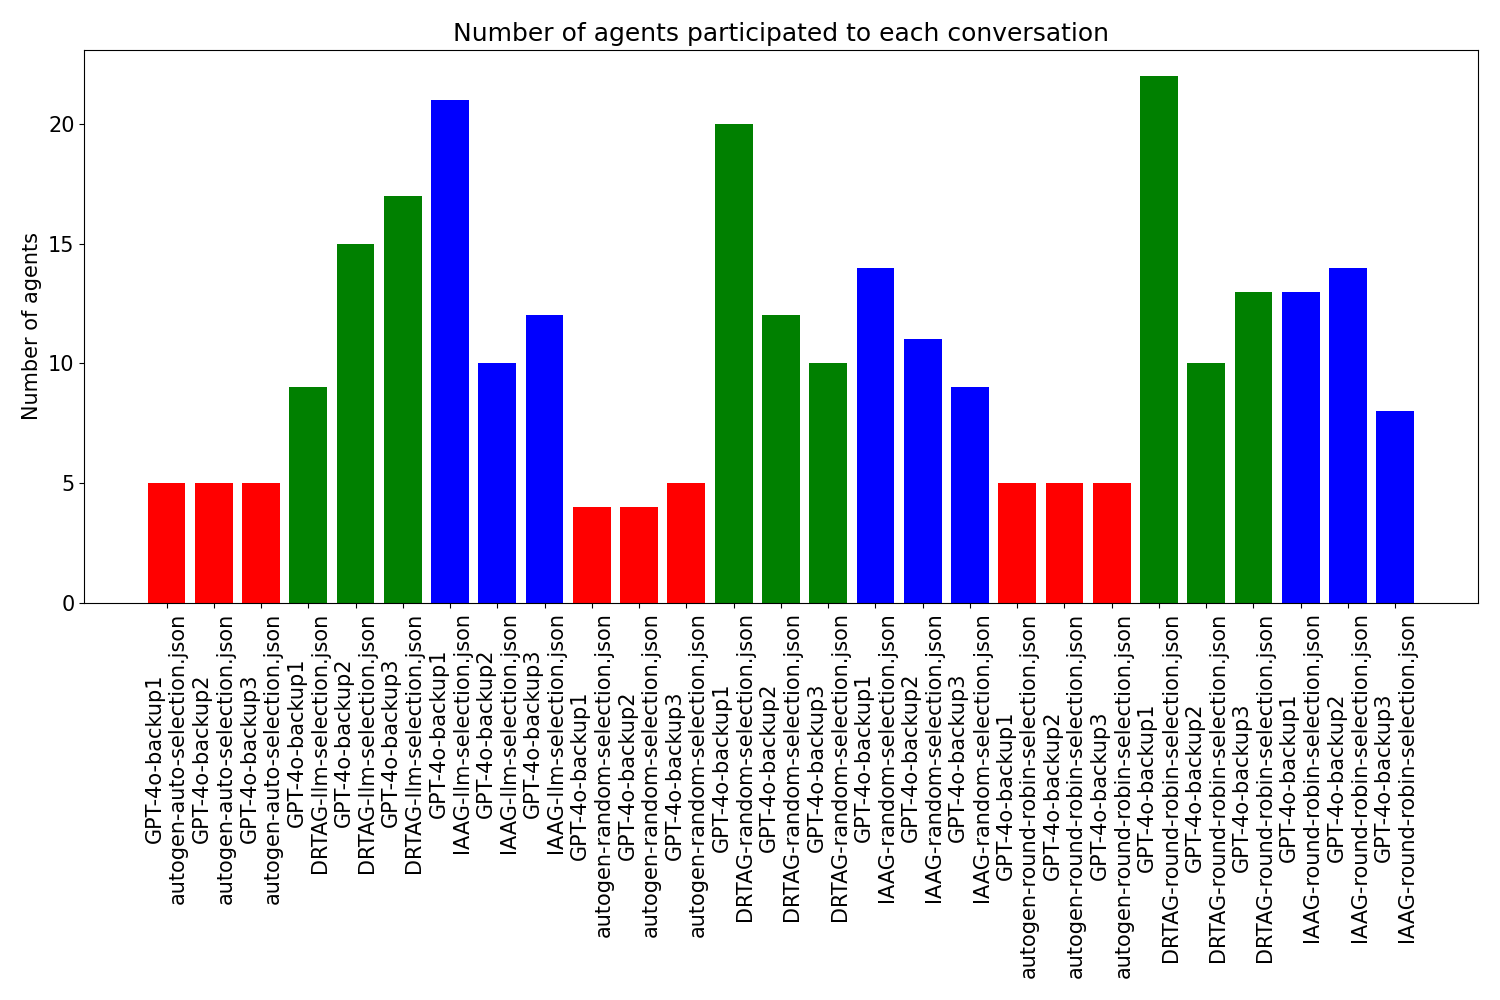
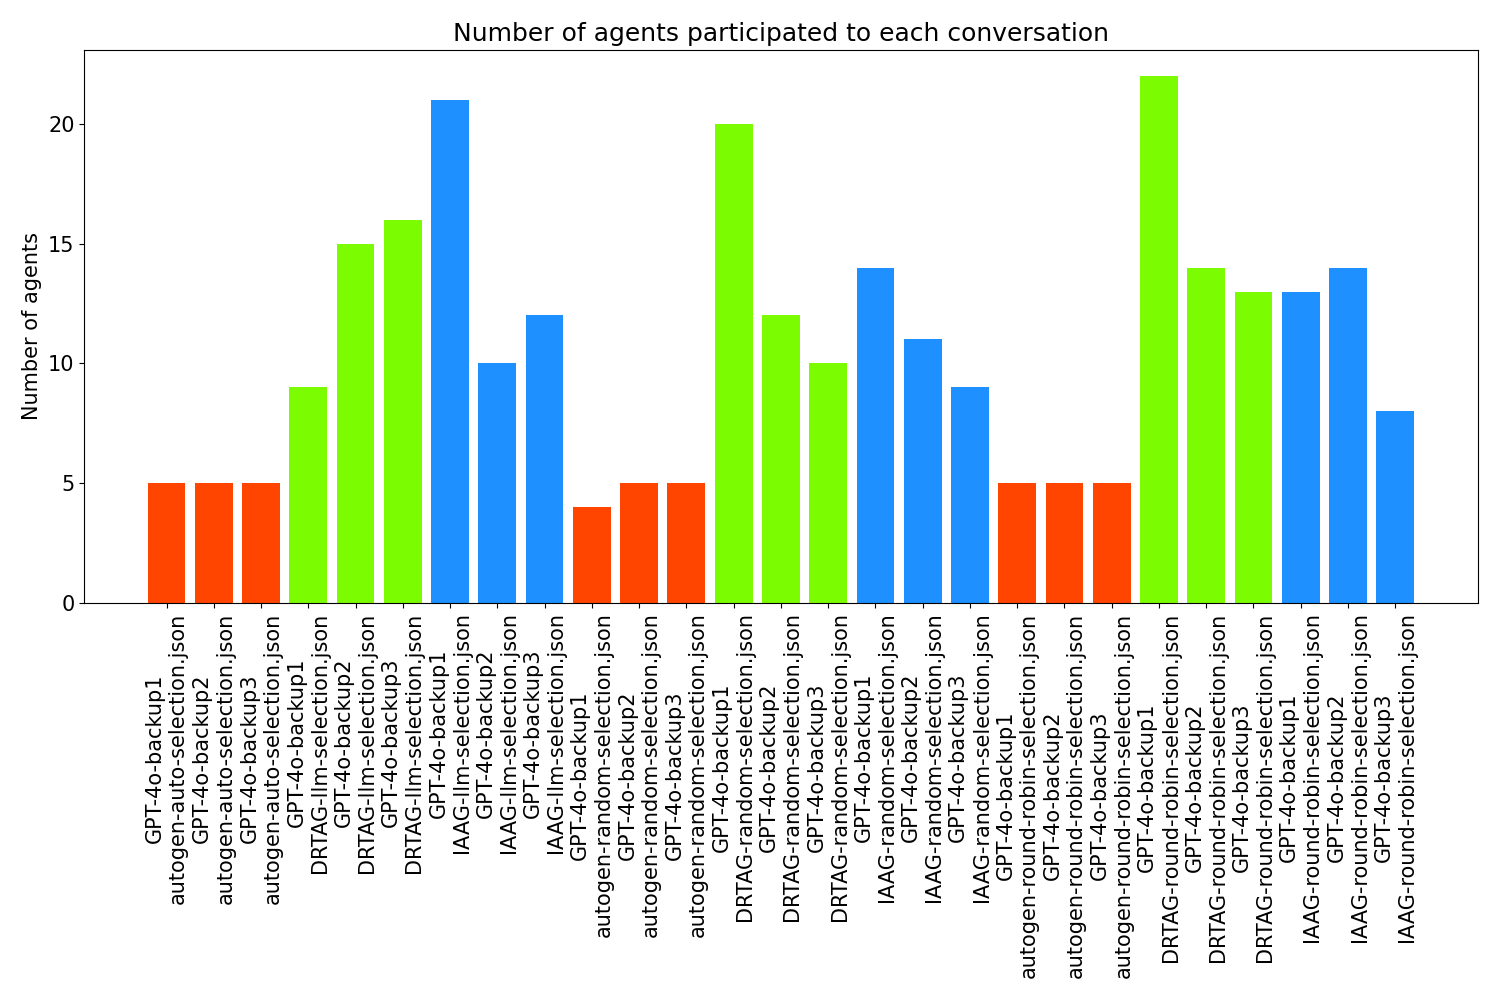
Modify evaluators to score against no of agents.

Changed region(s): [[0.092, 0.062, 0.9507, 0.62]]

diff --git a/agent-count-vs-new-knowledge-evaluator.py b/agent-count-vs-new-knowledge-evaluator.py
@@ -4,10 +4,6 @@ import re
 import nltk
 from nltk.stem import WordNetLemmatizer
 
-from sklearn.feature_extraction.text import TfidfVectorizer
-import pandas as pd
-import matplotlib.pyplot as plt
-
 jsonFilePaths = [
     # autogen llm selection
     "Existing-Solution/Responses/GPT-4o-backup1/autogen-llm-selection.json",
@@ -47,23 +43,6 @@ jsonFilePaths = [
     "Novel-Approach/Responses/GPT-4o-backup3/IAAG-round-robin-selection.json",
 ]
 
-corpus = []
-
-# Read data from the JSON file
-for jsonFilePath in jsonFilePaths:
-    with open(jsonFilePath, "r") as jsonFile:
-        jsonData = json.load(jsonFile)
-
-    # Convert data to a plain text format (Agent - Dialog \n Agent - Dialog)
-    plainTextData = ""
-    for entry in jsonData:
-        plainTextData += f"{entry['role']} - {entry['content']}\n"
-
-    corpus.append(plainTextData)
-
-print("Corpus with plain text documents is created.")
-
-# Clean the text data and remove stopwords
 stopwords = set(nltk.corpus.stopwords.words('english'))
 lemmatizer = WordNetLemmatizer()
 
@@ -75,14 +54,6 @@ def clean_text(text):
     text = ' '.join([lemmatizer.lemmatize(word) for word in nltk.word_tokenize(text)])
     return text
 
-cleanedCorpus = [clean_text(doc) for doc in corpus]
-# save cleaned corpus to a txt file
-with open("cleaned-corpus.txt", "w") as file:
-    for doc in cleanedCorpus:
-        file.write(doc + "\n")
-print("Text data is cleaned and stopwords are removed.")
-
-# Create the TF-IDF vectorizer
 vocab = {
     # Possible Illnesses
     "appendicitis", "gynecological", "kidney stone", "gastrointestinal", "colon cancer", "ileitis", "ovarian", "crohn disease", "colitis", "diverticulitis", "urinary tract", "musculoskeletal issue", "hernia",
@@ -93,43 +64,69 @@ vocab = {
     # Preventive Actions, Prior and Post Treatment Advice  
     "diet", "dietary", "hydrated", "hydration", "rest", "symptom diary", "fever", "nausea", "vomiting", "bowel", "dizziness", "abdominal rigidity", "stress", "breathing", "deepbreathing", "relaxation", "relax", "strenuous activity", "acupuncture", "allergy", "water", "diet", "heat", "fasting", "pain medication"
 }
-vectorizer = TfidfVectorizer(vocabulary=vocab, ngram_range=(1, 2))
-tfidfMatrix = vectorizer.fit_transform(cleanedCorpus)
 
-# Create tfidf table to output
-outputVocabulary = vectorizer.get_feature_names_out()
-documentNames = []
-for path in jsonFilePaths:
-    splitPath = path.split('/')
-    documentNames.append(splitPath[-2]+'/'+splitPath[-1])
+agentCountsAndBinaryWeight = dict()
 
-tfidfArray = tfidfMatrix.toarray()
-transposedTfidfArray = tfidfArray.T
-tfidfTable = pd.DataFrame(transposedTfidfArray, columns=documentNames, index=outputVocabulary)
+# Read data from the JSON file
+for jsonFilePath in jsonFilePaths:
+    with open(jsonFilePath, "r") as jsonFile:
+        jsonData = json.load(jsonFile)
 
-tfidfTable.to_csv("tfidf-table.csv")
-print("TF-IDF table is created and saved as tfidf-table.csv.")
+    # Count number of agents
+    agents = set()
+    for entry in jsonData:
+        agents.add(entry["role"])
 
-sums = tfidfTable.iloc[:, 0:].sum(axis=0)
+    # binary weight the new knowledge
+    initialAgents = {"Patient", "General-Ward-Doctor", "Nurse"}
+    initialAgentsContent = ""
+    autoGeneratedAgentsContent = ""
 
-plt.figure(figsize=(15, 10))
+    for entry in jsonData:
+        if entry["role"] in initialAgents:
+            initialAgentsContent += entry["content"] + " "
+            initialAgents.remove(entry["role"])
+        else:
+            autoGeneratedAgentsContent += entry["content"] + " "
+
+    # Clean the text data and remove stopwords
+    initialAgentsCleanedContent = clean_text(initialAgentsContent)
+    autoGeneratedAgentsCleanedContent = clean_text(autoGeneratedAgentsContent)
+
+    initialAgentsTermSet = set(initialAgentsCleanedContent.split())
+    autoGeneratedAgentsTermSet = set(autoGeneratedAgentsCleanedContent.split())
+    termsToScoreConversation = vocab.intersection(autoGeneratedAgentsTermSet - initialAgentsTermSet)
+
+    filename = jsonFilePath.split("/")[-2] + '\n' + jsonFilePath.split("/")[-1]
+    agentCountsAndBinaryWeight[filename] = [(len(agents) - 1), len(termsToScoreConversation)]
+
+print("Number of agents are counted for each JSON file.")
+
+# Plot a scatter plot of agent count vs binary weight
+import matplotlib.pyplot as plt
+
+plt.figure(figsize=(15, 8))
 plt.rcParams.update({'font.size': 15})
-# convert '/' in column  in tfidfTable to '\n' for better readability
-tfidfTable.columns = [col.replace('/', '\n') for col in tfidfTable.columns]
-barColors = []
-for label in tfidfTable.columns[0:]:
+scatterColors = []
+for label in agentCountsAndBinaryWeight.keys():
     if label.split("\n")[1].startswith("autogen"):
-        barColors.append('orangered')
+        scatterColors.append('pink')
     elif label.split("\n")[1].startswith("DRTAG"):
-        barColors.append('lawngreen')
+        scatterColors.append('limegreen')
     else:
-        barColors.append('dodgerblue')
+        scatterColors.append('yellow')
 
-plt.bar(tfidfTable.columns[0:], sums, color=barColors)
-plt.xticks(rotation=90)
-plt.ylabel("TF-IDF Sum")
-plt.title("TF-IDF Sum for each conversation")
+
+i = 0
+for key in agentCountsAndBinaryWeight.keys():
+    plt.scatter(agentCountsAndBinaryWeight[key][0], agentCountsAndBinaryWeight[key][1], color=scatterColors[i])
+    i += 1
+
+plt.title("Agent Count vs Binary Weight for New Knowledge")
+plt.xlabel("Number of Agents")
+plt.ylabel("Binary Weight for New Knowledge")
+plt.legend(loc="upper right", title="LLM-based MAS approach", labels=["Autogen", "DRTAG", "IAAG"])
+plt.grid()
 plt.tight_layout()
-plt.savefig("tfidfSums.png")
-
-print("TF-IDF sums are saved as tf-idf-sums.png.")
+plt.savefig("agentCountVsNewKnowledgeBinaryWeight2.png")
+print("Scatter plot of agent count vs binary weight is saved as agentCountVsNewKnowledgeBinaryWeight.png.")

diff --git a/binary-weight-for-new-knowledge-evaluator.py b/binary-weight-for-new-knowledge-evaluator.py
@@ -6,9 +6,9 @@ from nltk.stem import WordNetLemmatizer
 
 jsonFilePaths = [
     # autogen llm selection
-    "Existing-Solution/Responses/GPT-4o-backup1/autogen-auto-selection.json",
-    "Existing-Solution/Responses/GPT-4o-backup2/autogen-auto-selection.json",
-    "Existing-Solution/Responses/GPT-4o-backup3/autogen-auto-selection.json",
+    "Existing-Solution/Responses/GPT-4o-backup1/autogen-llm-selection.json",
+    "Existing-Solution/Responses/GPT-4o-backup2/autogen-llm-selection.json",
+    "Existing-Solution/Responses/GPT-4o-backup3/autogen-llm-selection.json",
     # DRTAG llm selection
     "Novel-Approach/Responses/GPT-4o-backup1/DRTAG-llm-selection.json",
     "Novel-Approach/Responses/GPT-4o-backup2/DRTAG-llm-selection.json",
@@ -79,7 +79,7 @@ for jsonFilePath in jsonFilePaths:
     for entry in jsonData:
         if entry["role"] in initialAgents:
             initialAgentsContent += entry["content"] + " "
-            initialAgents.remove(entry["role"])
+            # initialAgents.remove(entry["role"])
         else:
             autoGeneratedAgentsContent += entry["content"] + " "
 
@@ -103,16 +103,16 @@ plt.rcParams.update({'font.size': 15})
 barColors = []
 for label in conversationScores.keys():
     if label.split("\n")[1].startswith("autogen"):
-        barColors.append('red')
+        barColors.append('orangered')
     elif label.split("\n")[1].startswith("DRTAG"):
-        barColors.append('green')
+        barColors.append('lawngreen')
     else:
-        barColors.append('blue')
+        barColors.append('dodgerblue')
 
 plt.bar(conversationScores.keys(), conversationScores.values(), color=barColors)
 plt.xticks(rotation=90)
 plt.ylabel("Conversation Score")
 plt.title("Conversation score calculated using binary weighting for new knowledge")
 plt.tight_layout()
-plt.savefig("conversationScoresBinaryWeighting2.png")
+plt.savefig("conversationScoresBinaryWeighting.png")
 print("Graph is plotted successfully.")

diff --git a/agent-count-evaluator.py b/agent-count-evaluator.py
@@ -2,9 +2,9 @@ import json
 
 jsonFilePaths = [
     # autogen llm selection
-    "Existing-Solution/Responses/GPT-4o-backup1/autogen-auto-selection.json",
-    "Existing-Solution/Responses/GPT-4o-backup2/autogen-auto-selection.json",
-    "Existing-Solution/Responses/GPT-4o-backup3/autogen-auto-selection.json",
+    "Existing-Solution/Responses/GPT-4o-backup1/autogen-llm-selection.json",
+    "Existing-Solution/Responses/GPT-4o-backup2/autogen-llm-selection.json",
+    "Existing-Solution/Responses/GPT-4o-backup3/autogen-llm-selection.json",
     # DRTAG llm selection
     "Novel-Approach/Responses/GPT-4o-backup1/DRTAG-llm-selection.json",
     "Novel-Approach/Responses/GPT-4o-backup2/DRTAG-llm-selection.json",
@@ -64,11 +64,11 @@ plt.rcParams.update({'font.size': 15})
 barColors = []
 for label in agentCounts.keys():
     if label.split("\n")[1].startswith("autogen"):
-        barColors.append('red')
+        barColors.append('orangered')
     elif label.split("\n")[1].startswith("DRTAG"):
-        barColors.append('green')
+        barColors.append('lawngreen')
     else:
-        barColors.append('blue')
+        barColors.append('dodgerblue')
 
 plt.bar(agentCounts.keys(), agentCounts.values(), color=barColors)
 plt.xticks(rotation=90)

diff --git a/tf-idf-evaluator copy.py b/tf-idf-evaluator copy.py
@@ -10,9 +10,9 @@ import matplotlib.pyplot as plt
 
 jsonFilePaths = [
     # autogen llm selection
-    "Existing-Solution/Responses/GPT-4o-backup1/autogen-auto-selection.json",
-    "Existing-Solution/Responses/GPT-4o-backup2/autogen-auto-selection.json",
-    "Existing-Solution/Responses/GPT-4o-backup3/autogen-auto-selection.json",
+    "Existing-Solution/Responses/GPT-4o-backup1/autogen-llm-selection.json",
+    "Existing-Solution/Responses/GPT-4o-backup2/autogen-llm-selection.json",
+    "Existing-Solution/Responses/GPT-4o-backup3/autogen-llm-selection.json",
     # DRTAG llm selection
     "Novel-Approach/Responses/GPT-4o-backup1/DRTAG-llm-selection.json",
     "Novel-Approach/Responses/GPT-4o-backup2/DRTAG-llm-selection.json",
@@ -150,11 +150,11 @@ plt.rcParams.update({'font.size': 15})
 barColors = []
 for label in tfidfTable.columns[0:]:
     if label.startswith("autogen"):
-        barColors.append('red')
+        barColors.append('orangered')
     elif label.startswith("DRTAG"):
-        barColors.append('green')
+        barColors.append('lawngreen')
     else:
-        barColors.append('blue')
+        barColors.append('dodgerblue')
 
 plt.bar(tfidfTable.columns[0:], sums, color=barColors)
 plt.xticks(rotation=90)
